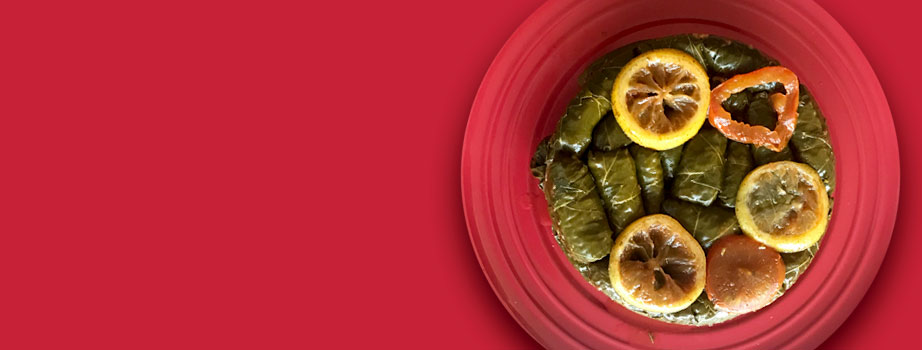
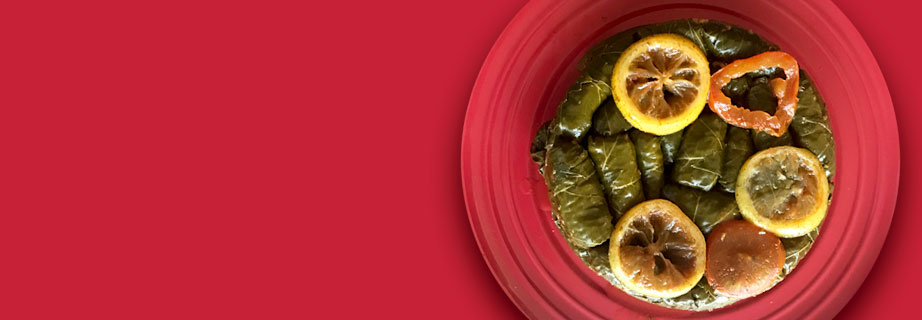
changing fotter BG color and editing the width of the contact form

diff --git a/shoeib_amr_FIP/Recipes.html b/shoeib_amr_FIP/Recipes.html
@@ -32,33 +32,64 @@
             </div><!--end service2-->
             <div id="service3" class="boxColor">
             </div><!--end service3-->
-            <div id="banner" class="boxColor">
-                <section>
-                    <h2>DOLMAS - STUFFED
-                        GRAPE LEAVES</h2>
 
-                        <img src="images/dolma.jpg" alt="dolma-plate" width="922" height="350">
+            <div id="banner" class="boxColor">
+                
+                <div class="dolma-headline">
+                   
+                        <img src="images/dolma.jpg" alt="dolma-plate" width="922" height="320" class="dolma-hero-img">
                         
-                        <p>
+                        <h2 >DOLMAS - STUFFED
+                            GRAPE LEAVES</h2>
+                            
+                            <div class="dolma-paragraph">
+                        <p >
                             Dolma, in Middle Eastern and Greek cuisine,
                             any of various stuffed vegetable dishes—notably,
                             The young leaves of the grapevine stuffed
                             with a lemon-flavoured mixture of rice, onion,
-                            and, frequently, ground lamb
+                            and, frequently, ground lamb.
+                            Depending on where you are in the world, stuffed grape leaves feature a simple rice and onion pilaf that includes meat (usually ground beef or ground lamb), vegetables, or neither—cooked in broth until soft.
                         </p>
-                </section>
-                
+                    </div>
+                    </div>
             </div><!--end banner-->
         </main>
+        <footer class="mainFooter grid">
+            <div class="logoNav">
+              <div class="logoFooter">
+                <img src="images/logo_footer.svg" alt="The kitchen logo-footer" width="160" height="83" id="logoFooter">
 
-        <footer id="mainFooter">
-        	<div id="footerNav" class="boxColor">
-            </div><!--end FooterNav-->
-            <div id="copyRight" class="boxColor">
-            </div><!--end Copyright-->
-        </footer><!--end mainFooter-->
+                <form class="style-form"> <input type="text" placeholder="Search this website" name="Search for a recipe">
+                    <input type="submit" value="Search"/>
+                </form>
+              </div>
+              
+            </div>  
+      
+            <div class="socialMedia">
+              <h2 class="hidden">Social Media</h2>
+              <ul id="iconNav">
+                  <li id="facebook">
+                    <a href="http://www.facebook.com">
+                      <img src="images/facebook.svg" alt="facebook">
+                    </a>
+                  </li>
+                  <li id="twitter">
+                    <a href="http://www.twitter.com">
+                      <img src="images/twitter.svg" alt="twitter">
+                    </a>
+                  </li>
+                  <li id="youtube">
+                    <a href="http://www.youtube.com">
+                      <img src="images/youtube.svg" alt="youtube">
+                    </a>
+                 </li>
+              </ul>
+            </div>     
+          </footer>
         
-    </div><!--end container-->
+    </div><!--end siteContainer-->
 <script src="js/main.js"></script>    
 </body>
 </html>

diff --git a/shoeib_amr_FIP/css/main.css b/shoeib_amr_FIP/css/main.css
@@ -7,7 +7,7 @@
 	color: #fff;
 	text-align: left;
 	margin: 0;
-	background-color: rgba(0, 0, 0, 0);
+	background-color: rgb(0, 0, 0);
 	
 }
 
@@ -215,11 +215,11 @@ main {
 
 .wrapper{
 	background-color: #caa867;
-	width: 400px;
+	width: 390px;
 	padding: 30px;
 	margin: 0 auto;
 	position: absolute;
-	left: -33px;
+	left:0px;
 	top: 11px;
 }
 
@@ -360,7 +360,37 @@ textarea{
 #banner {
 	grid-column: 1/11;
 	/* Remove as content will dictate height */
-	height: 300px;
+	height: 320px;
+	position: relative;
+	top: 66px;
+}
+
+
+.dolma-headline h2{
+position: absolute;
+top: 44px;
+color: rgb(255, 255, 255);
+font-size: 40px;
+width: 444px;
+margin-left: 15px;
+margin-top: 5px;
+margin-bottom: 7px;
+}
+
+.dolma-paragraph p{
+	position: absolute;
+	bottom:15px;
+	color: rgb(255, 255, 255);
+	margin-left: 10px;
+	margin-top: 10px;
+	width: 400px;
+	font-size: 14px;
+	border-style:solid;
+	border-bottom: 0cm;
+	border-right: 0cm;
+	border-left: 0cm;
+	padding: 13px;
+	
 }
 
 
@@ -530,7 +560,7 @@ font-size: 25px;
 .mainFooter{
     height: auto;
 	width: 920px;
-    background-color: #caa867;
+    background-color: #2a2929;
 	position: relative;
     margin-top: 20px;
 
@@ -592,7 +622,7 @@ font-size: 25px;
 
 input[type=text] {
 	background-color: #ffffff;
-	width: 170px;
+	width: 200px;
 	height: 22px;
 	text-align: center;
 	border-radius: 5px;
@@ -600,7 +630,7 @@ input[type=text] {
 
 	
 	input[type=submit]{
-		background-color: #550d13;
+		background-color: #caa867;
 		height: 27px;
 		color: #fff;
 		border-radius: 5px;
